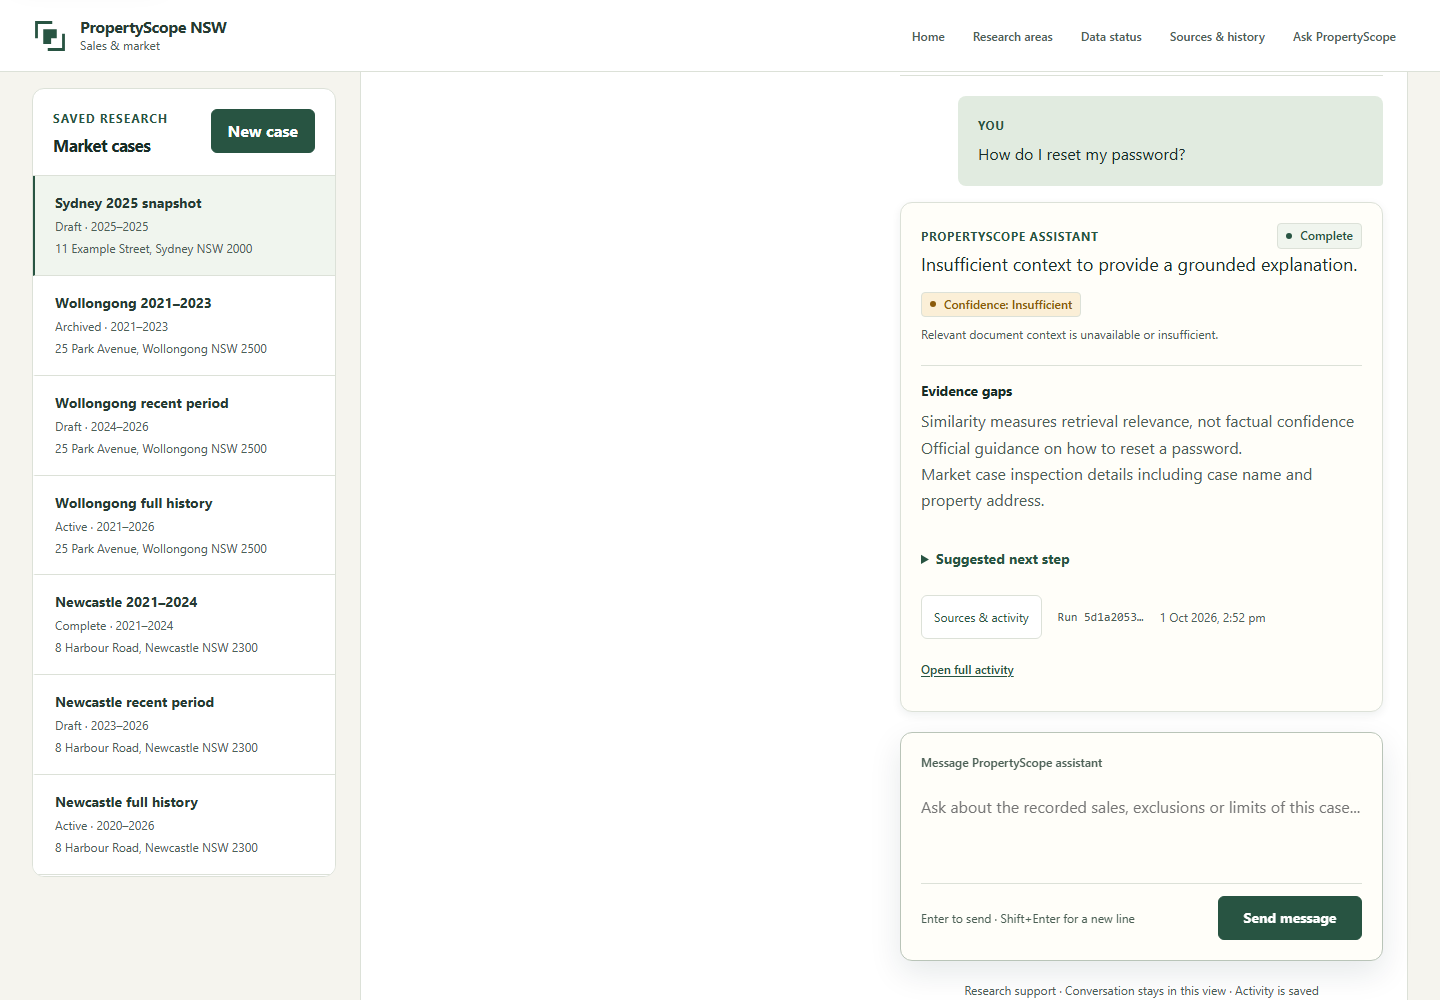
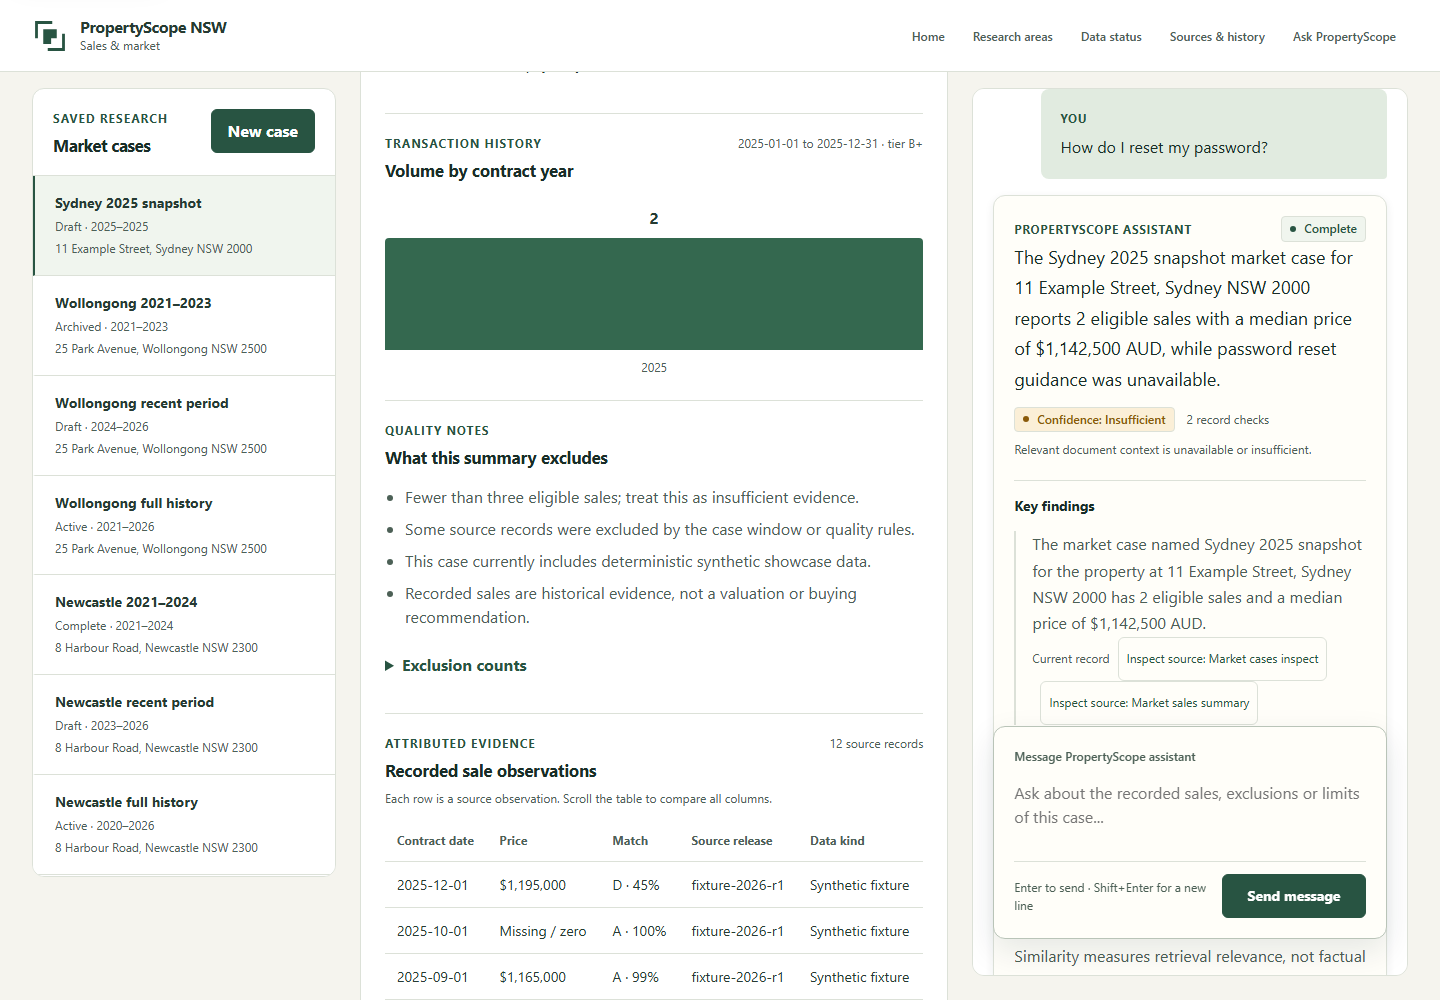
feat(student-2): give the assistant its own workspace column
The assistant sat inside the selected case's detail panel, so it scrolled out of
view as soon as a user read down through the transaction chart, quality notes and
the recorded sale observations table. On a case with a full sale history it was
off screen for most of the page.

It is now a third top-level column beside the case list and the case detail,
sticky and independently scrollable, so a question can be asked from any scroll
position. Both side panels un-stick together below three comfortable columns: a
sticky panel in a collapsed grid stays pinned over the row beneath it, which
rendered the assistant on top of the case list.

The column shares the remaining width with the case detail rather than taking a
fixed size, because answers carry citations and a confidence block that wrap badly
when narrow. The detail keeps the larger share and its sales table already scrolls
horizontally, so the width costs it nothing.

Re-captures the three Release 1 screenshots against this layout. The insufficient
-context capture now shows both tool sources and the refusal in one frame.

diff --git a/student-2/frontend/styles.css b/student-2/frontend/styles.css
@@ -1,4 +1,4 @@
-:root { --f2-rail: 19rem; }
+:root { --f2-rail: 19rem; --f2-assistant: 24rem; --f2-sticky-top: calc(var(--ps-feature-header-height, var(--ps-shell-topbar-height)) + var(--ps-space-4)); }
 body { background: var(--ps-color-background); }
 
 main { width: min(100%, var(--ps-content-wide)); margin: 0 auto; padding: var(--ps-space-8) var(--ps-page-gutter) var(--ps-space-16); }
@@ -9,9 +9,13 @@ main { width: min(100%, var(--ps-content-wide)); margin: 0 auto; padding: var(--
 .eyebrow { margin-bottom: var(--ps-space-2); color: var(--ps-color-accent); font-size: var(--ps-text-caption); font-weight: var(--ps-weight-bold); letter-spacing: .08em; }
 
 .notice { margin-bottom: var(--ps-space-4); padding: var(--ps-space-3) var(--ps-space-4); border: var(--ps-border-width) solid var(--ps-color-border-strong); border-radius: var(--ps-radius-sm); color: var(--ps-color-text); background: var(--ps-color-warning-surface); }
-.workspace { display: grid; grid-template-columns: var(--f2-rail) minmax(0, 1fr); gap: var(--ps-space-6); align-items: start; }
-.case-panel, .detail-panel { border: var(--ps-border-width) solid var(--ps-color-border); border-radius: var(--ps-radius-lg); background: var(--ps-color-surface); box-shadow: none; }
-.case-panel { position: sticky; top: calc(var(--ps-feature-header-height, var(--ps-shell-topbar-height)) + var(--ps-space-4)); overflow: hidden; }
+/* The assistant shares the remaining width with the case detail rather than taking a fixed
+   column: answers carry citations and a confidence block, which wrap badly when narrow. The
+   detail keeps the larger share, and its sales table scrolls horizontally when squeezed.
+   --f2-assistant is the floor, not the width. */
+.workspace { display: grid; grid-template-columns: var(--f2-rail) minmax(0, 1.35fr) minmax(var(--f2-assistant), 1fr); gap: var(--ps-space-6); align-items: start; }
+.case-panel, .detail-panel, .assistant-panel { border: var(--ps-border-width) solid var(--ps-color-border); border-radius: var(--ps-radius-lg); background: var(--ps-color-surface); box-shadow: none; }
+.case-panel { position: sticky; top: var(--f2-sticky-top); overflow: hidden; }
 .section-heading, .detail-heading, .card-heading, .dialog-heading { display: flex; gap: var(--ps-space-4); align-items: flex-start; justify-content: space-between; }
 .section-heading { padding: var(--ps-space-5); border-bottom: var(--ps-border-width) solid var(--ps-color-border); }
 .section-heading h2, .detail-heading h2, .dialog-heading h2 { margin: 0; font-size: var(--ps-text-heading-small); }
@@ -46,7 +50,12 @@ main { width: min(100%, var(--ps-content-wide)); margin: 0 auto; padding: var(--
 .volume-column { display: grid; flex: 1; min-width: 2.5rem; gap: var(--ps-space-2); align-content: end; text-align: center; }
 .volume-bar { height: calc(var(--volume-ratio, 0) * 7rem); min-height: 0; border-radius: var(--ps-radius-xs) var(--ps-radius-xs) 0 0; background: var(--ps-ocean-600); }
 .volume-column span { color: var(--ps-color-text-muted); font-size: var(--ps-text-caption); }
-.two-column { display: grid; grid-template-columns: repeat(2, minmax(0, 1fr)); gap: var(--ps-space-8); }
+/* The assistant is its own column so a long case detail cannot scroll it out of view.
+   It scrolls internally instead, keeping the composer reachable at any scroll position. */
+.assistant-panel { position: sticky; top: var(--f2-sticky-top); display: flex; flex-direction: column; gap: var(--ps-space-4); min-width: 0; max-height: calc(100vh - var(--f2-sticky-top) - var(--ps-space-6)); padding: var(--ps-space-5); overflow: auto; overscroll-behavior: contain; }
+.assistant-panel-intro h2 { margin: 0 0 var(--ps-space-2); font-size: var(--ps-text-heading-small); }
+.assistant-panel-intro p { margin-bottom: 0; color: var(--ps-color-text-muted); font-size: var(--ps-text-caption); }
+.assistant-panel #assistant-root { min-height: 0; }
 .limitations { padding-left: var(--ps-space-5); color: var(--ps-color-text-muted); }
 .limitations li { margin-bottom: var(--ps-space-2); }
 summary { color: var(--ps-color-accent); cursor: pointer; font-weight: var(--ps-weight-bold); }
@@ -72,12 +81,13 @@ dialog::backdrop { background: var(--ps-color-overlay); }
 small { color: var(--ps-color-text-muted); }
 .error-text { color: var(--ps-color-danger); }
 
-@media (max-width: 900px) {
-  .workspace, .hero, .two-column { grid-template-columns: 1fr; }
-  .case-panel { position: static; }
+/* Below three comfortable columns everything stacks in document order, and both panels stop
+   being sticky: a sticky panel in a collapsed grid stays pinned over the row beneath it. */
+@media (max-width: 1200px) {
+  .workspace, .hero { grid-template-columns: 1fr; }
+  .case-panel, .assistant-panel { position: static; max-height: none; overflow: visible; }
   .case-list { max-height: 16rem; }
-  .metrics { grid-template-columns: repeat(2, 1fr); }
-
+  .metrics { grid-template-columns: repeat(2, minmax(0, 1fr)); }
 }
 
 @media (max-width: 560px) {
@@ -103,4 +113,3 @@ small { color: var(--ps-color-text-muted); }
 .badge[data-state="pending"], .badge[data-state="draft"] { color: var(--ps-color-warning); background: var(--ps-color-warning-surface); }
 .assistant-answer { color: var(--ps-color-text); font-size: var(--ps-text-label); }
 #assistant-status:empty { display: none; }
-@media (max-width: 1100px) and (min-width: 901px) { .two-column { grid-template-columns: 1fr; } .metrics { grid-template-columns: repeat(2, minmax(0, 1fr)); } }

diff --git a/student-2/frontend/index.html b/student-2/frontend/index.html
@@ -90,20 +90,11 @@
             <div id="volume-chart" class="volume-chart"></div>
           </section>
 
-          <section class="two-column">
-            <div class="card">
-              <p class="eyebrow">QUALITY NOTES</p>
-              <h3>What this summary excludes</h3>
-              <ul id="limitations" class="limitations"></ul>
-              <details><summary>Exclusion counts</summary><dl id="exclusion-reasons" class="reason-list"></dl></details>
-            </div>
-            <div class="card ai-card">
-              <p class="eyebrow">CASE-SCOPED ASSISTANT</p>
-              <h3>Ask about this evidence</h3>
-              <p>The shared AI service can inspect this case through two read-only tools and the feature's published guidance. It cannot alter this case. The figures above are calculated by the data service, not the model.</p>
-              <p id="assistant-requires-case" class="muted" hidden>Select a market case to ask about its recorded sales, exclusions and limits.</p>
-              <div id="assistant-root" hidden></div>
-            </div>
+          <section class="card">
+            <p class="eyebrow">QUALITY NOTES</p>
+            <h3>What this summary excludes</h3>
+            <ul id="limitations" class="limitations"></ul>
+            <details><summary>Exclusion counts</summary><dl id="exclusion-reasons" class="reason-list"></dl></details>
           </section>
 
           <section class="card sales-card" aria-labelledby="sales-title">
@@ -112,6 +103,16 @@
           </section>
         </div>
       </section>
+
+      <aside class="assistant-panel" aria-label="Case-scoped assistant">
+        <div class="assistant-panel-intro">
+          <p class="eyebrow">CASE-SCOPED ASSISTANT</p>
+          <h2>Ask about this evidence</h2>
+          <p>The shared AI service can inspect this case through two read-only tools and the feature's published guidance. It cannot alter this case. The figures beside it are calculated by the data service, not the model.</p>
+        </div>
+        <p id="assistant-requires-case" class="muted" hidden>Select a market case to ask about its recorded sales, exclusions and limits.</p>
+        <div id="assistant-root" hidden></div>
+      </aside>
     </section>
   </main>
 
